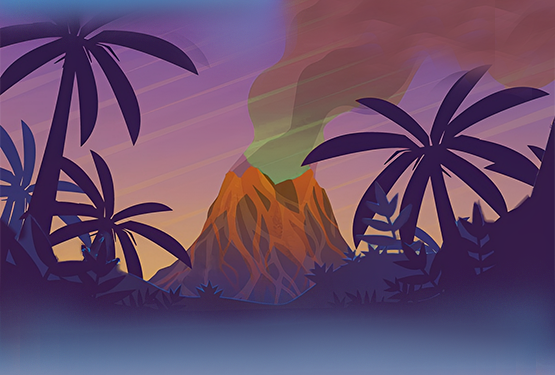
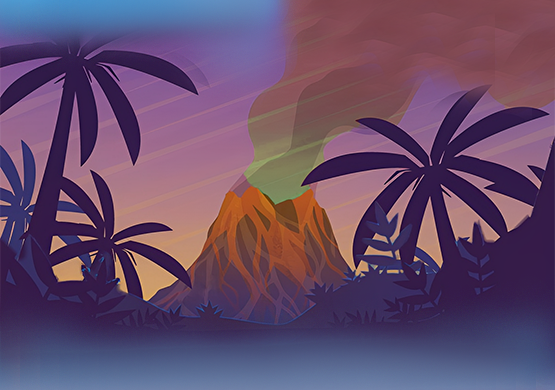
background done

Changed region(s): [[0.0, 0.0, 1.0, 0.8213], [0.4288, 0.1467, 0.5514, 0.2933]]

diff --git a/opdracht3/scss/chriharu.min.css b/opdracht3/scss/chriharu.min.css
@@ -1,1 +1,1 @@
-#chriharu{font-family:"Pacifico",cursive;overflow-x:hidden;overflow-y:hidden}#chriharu .box{background-image:url(../images/extra/schildpad-lichaam.png);background-position:center;background-size:cover;background-repeat:no-repeat;z-index:2}#chriharu .box .schildpad-hoofd img{position:absolute;bottom:-67%;width:130%;z-index:-1000;transform:rotate(180deg)}#chriharu .box .schildpad-ledematen{position:absolute;width:120vw;height:10vh}#chriharu .cocktail .cocktail-bg{background-image:url(../images/cocktail/cocktail-bg.png);background-repeat:no-repeat;background-position:bottom;position:relative;background-size:cover;height:500vh;z-index:-10}#chriharu .volcano .volcano-bg{background-image:url(../images/vulcano/vulcano-bg.png);background-repeat:no-repeat;background-position:bottom;position:relative;background-size:cover;height:100vh;z-index:-10;margin-top:-1rem}#chriharu .beach .beach-water{position:absolute;left:0;bottom:0;height:37%;width:100%;z-index:20}#chriharu .beach .waterdrops{position:absolute;left:0;bottom:0;height:100%;width:150%;z-index:200}#chriharu .beach h2{text-decoration:dashed;color:#ffc300;text-shadow:0 0 3px rgba(0,0,0,.5);text-align:center;padding-top:4rem;font-size:xxx-large;position:relative;z-index:100}#chriharu .beach .beach-bg{background-image:url(../images/beach/beach-bg.png);background-repeat:no-repeat;background-position:center center;position:absolute;width:100%;height:100vh;background-size:cover;z-index:-10;top:0}#chriharu .underwater .underwater-bg{background-image:url(../images/underwater/blended-water.png);background-repeat:no-repeat;background-position:center top 5%;position:relative;background-size:cover;height:300vh;width:100%;z-index:-10;margin-top:-1rem}#chriharu .underwater .fish{margin-top:5rem;display:flex;flex-direction:column;gap:7rem;position:absolute;width:100%;height:100%}#chriharu .underwater .fish .swim-to-left{object-fit:contain;animation:swim-to-left 2s linear infinite;height:5%}#chriharu .underwater .fish .swim-to-right{object-fit:contain;animation:swim-to-right 2s linear infinite;height:5%}@keyframes swim-to-left{0%{transform:translateX(100%)}100%{transform:translateX(-100%) rotate(-20deg)}}@keyframes swim-to-right{0%{transform:translateX(-100%)}100%{transform:translateX(100%)}}#chriharu .turtle-land h1{font-size:4rem;font-weight:200;color:#c0effe;text-shadow:4px 4px 8px #000;text-align:center;position:absolute;z-index:100;top:20%;left:35%}#chriharu .turtle-land .turtle-land-bg{background-image:url(../images/extra/Turtle-land.png);background-repeat:no-repeat;background-position:center right;position:relative;background-size:cover;width:100%;height:130vh;z-index:1;margin-top:-1rem}/*# sourceMappingURL=chriharu.min.css.map */
+#chriharu{font-family:"Pacifico",cursive;overflow-x:hidden;overflow-y:hidden}#chriharu .box{background-image:url(../images/extra/schildpad-lichaam.png);background-position:center;background-size:cover;background-repeat:no-repeat;z-index:2}#chriharu .box .schildpad-hoofd img{position:absolute;bottom:-67%;width:130%;z-index:-1000;transform:rotate(180deg)}#chriharu .box .schildpad-ledematen{position:absolute;width:120vw;height:10vh}#chriharu .cocktail .cocktail-bg{background-image:url(../images/cocktail/cocktail-bg.png);background-repeat:no-repeat;background-position:bottom;position:relative;background-size:cover;height:300vh;width:100%;z-index:-10}#chriharu .volcano .volcano-bg{background-image:url(../images/vulcano/vulcano-bg.png);background-repeat:no-repeat;background-position:bottom;position:relative;background-size:cover;height:130vh;width:100%;z-index:-10;margin-top:-1rem}#chriharu .beach .beach-water{position:absolute;left:0;bottom:0;height:37%;width:100%;z-index:20}#chriharu .beach .waterdrops{position:absolute;left:0;bottom:0;height:100%;width:150%;z-index:200}#chriharu .beach h2{text-decoration:dashed;color:#ffc300;text-shadow:0 0 3px rgba(0,0,0,.5);text-align:center;padding-top:4rem;font-size:xxx-large;position:relative;z-index:100}#chriharu .beach .beach-bg{background-image:url(../images/beach/beach-bg.png);background-repeat:no-repeat;background-position:center center;position:absolute;width:100%;height:100vh;background-size:cover;z-index:-10;top:0}#chriharu .underwater .underwater-bg{background-image:url(../images/underwater/blended-water.png);background-repeat:no-repeat;background-position:center top 5%;position:relative;background-size:cover;height:300vh;width:100%;z-index:-10;margin-top:-1rem}#chriharu .underwater .fish{margin-top:5rem;display:flex;flex-direction:column;gap:7rem;position:absolute;width:100%;height:100%}#chriharu .underwater .fish .swim-to-left{object-fit:contain;animation:swim-to-left 2s linear infinite;height:5%}#chriharu .underwater .fish .swim-to-right{object-fit:contain;animation:swim-to-right 2s linear infinite;height:5%}@keyframes swim-to-left{0%{transform:translateX(100%)}100%{transform:translateX(-100%) rotate(-20deg)}}@keyframes swim-to-right{0%{transform:translateX(-100%)}100%{transform:translateX(100%)}}#chriharu .turtle-land h1{font-size:4rem;font-weight:200;color:#c0effe;text-shadow:4px 4px 8px #000;text-align:center;position:absolute;z-index:100;top:20%;left:35%}#chriharu .turtle-land .turtle-land-bg{background-image:url(../images/extra/Turtle-land.png);background-repeat:no-repeat;background-position:center right;position:relative;background-size:cover;width:100%;height:130vh;z-index:1;margin-top:-1rem}/*# sourceMappingURL=chriharu.min.css.map */

diff --git a/opdracht3/scss/chriharu.scss b/opdracht3/scss/chriharu.scss
@@ -30,7 +30,8 @@
             background-position: bottom;
             position: relative;
             background-size: cover;
-            height: 500vh;
+            height: 300vh;
+            width: 100%;
             z-index: -10;
         }
     }
@@ -41,7 +42,8 @@
             background-position: bottom;
             position: relative;
             background-size: cover;
-            height: 100vh;
+            height: 130vh;
+            width: 100%;
             z-index: -10;
             margin-top: -1rem;
         }

diff --git a/opdracht3/scss/chriharu.css b/opdracht3/scss/chriharu.css
@@ -28,7 +28,8 @@
   background-position: bottom;
   position: relative;
   background-size: cover;
-  height: 500vh;
+  height: 300vh;
+  width: 100%;
   z-index: -10;
 }
 #chriharu .volcano .volcano-bg {
@@ -37,7 +38,8 @@
   background-position: bottom;
   position: relative;
   background-size: cover;
-  height: 100vh;
+  height: 130vh;
+  width: 100%;
   z-index: -10;
   margin-top: -1rem;
 }
